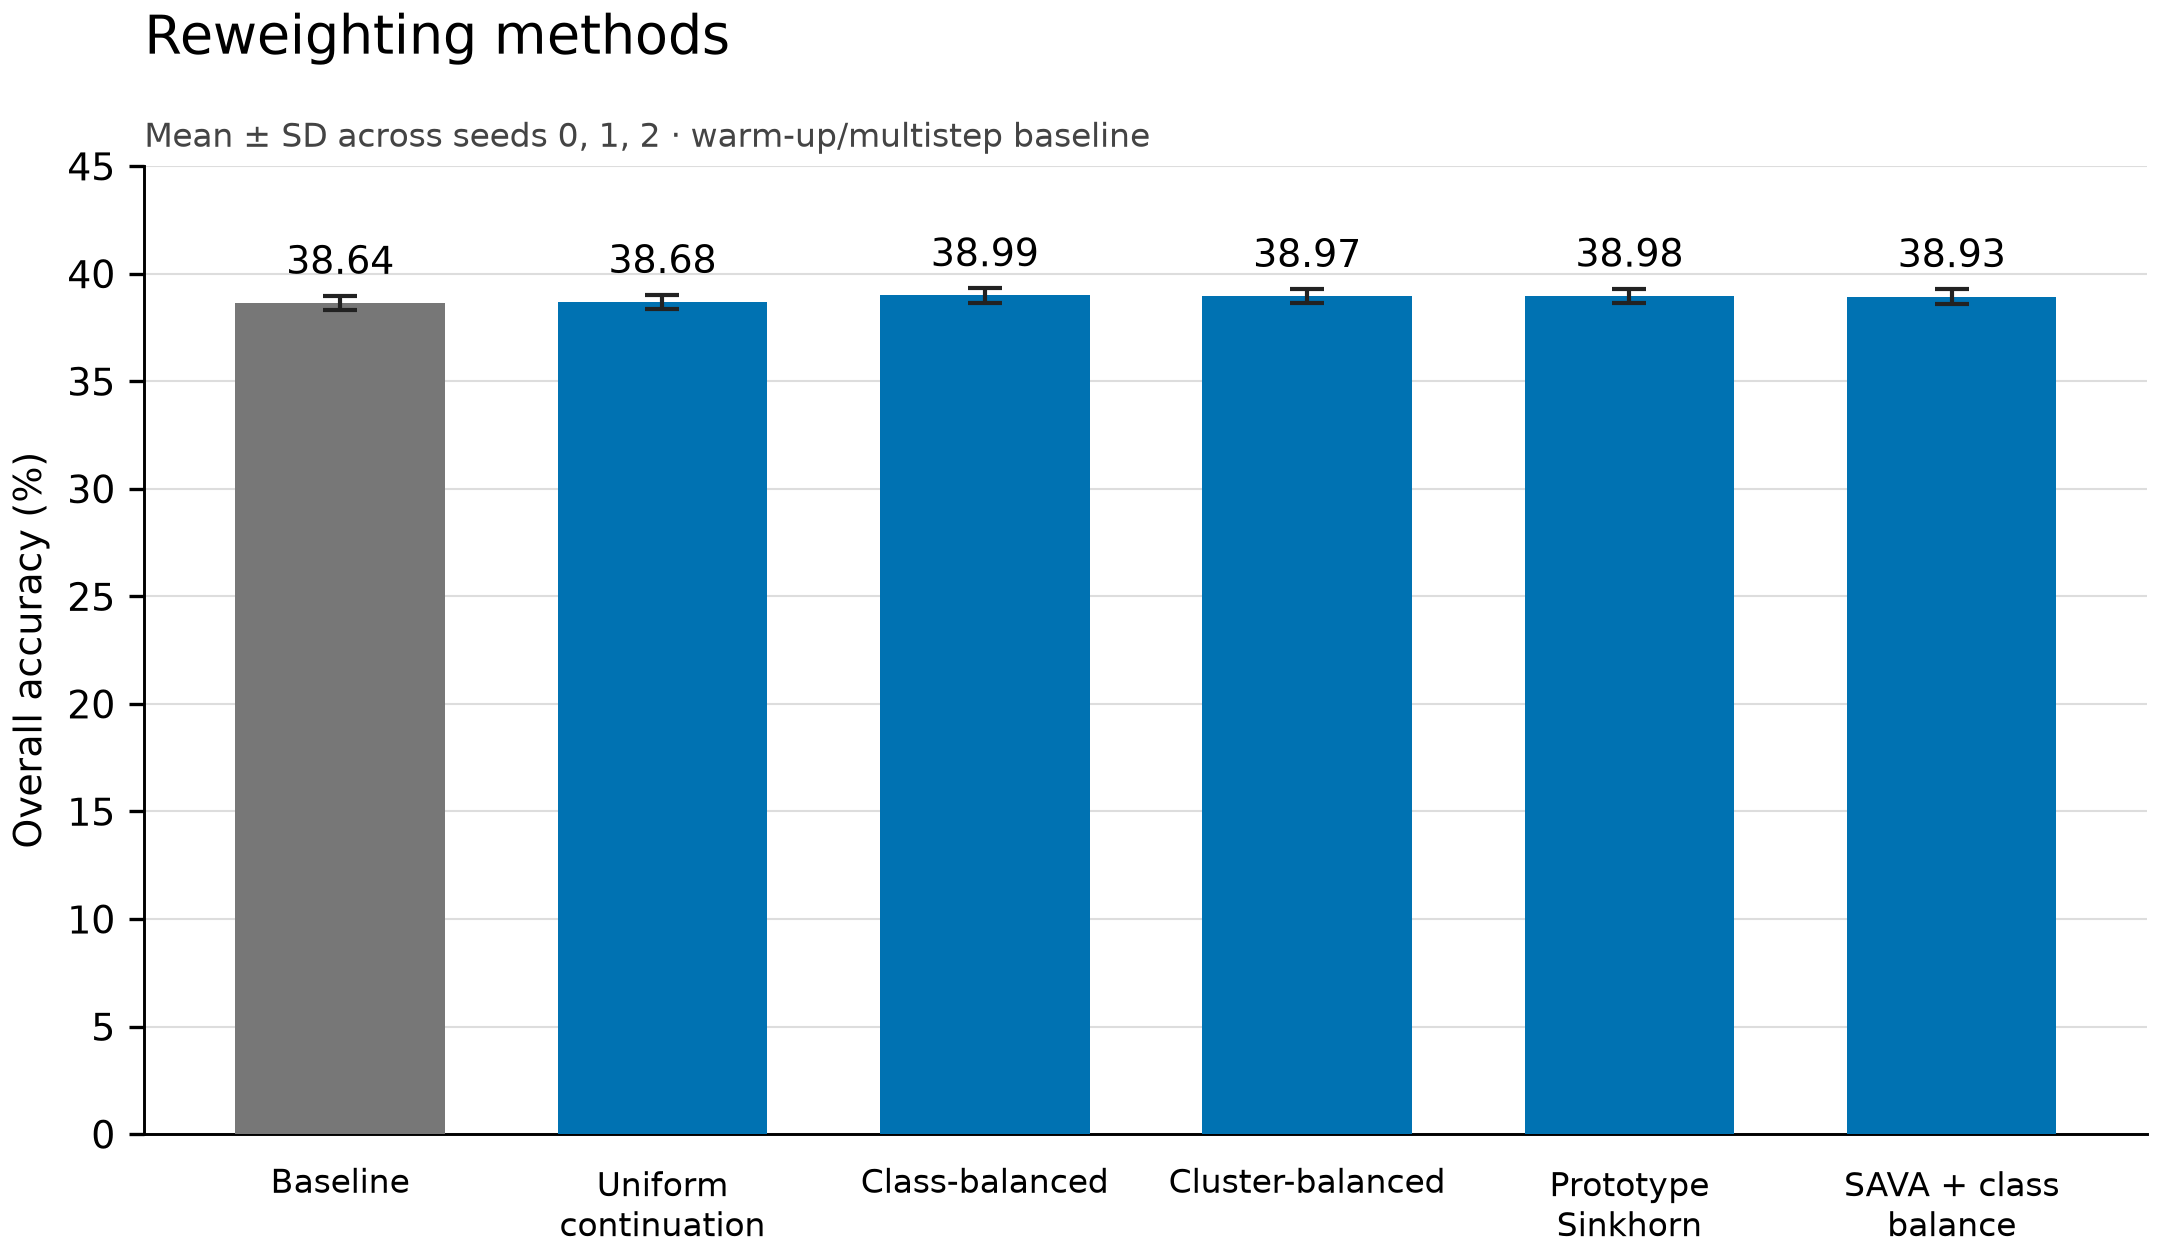
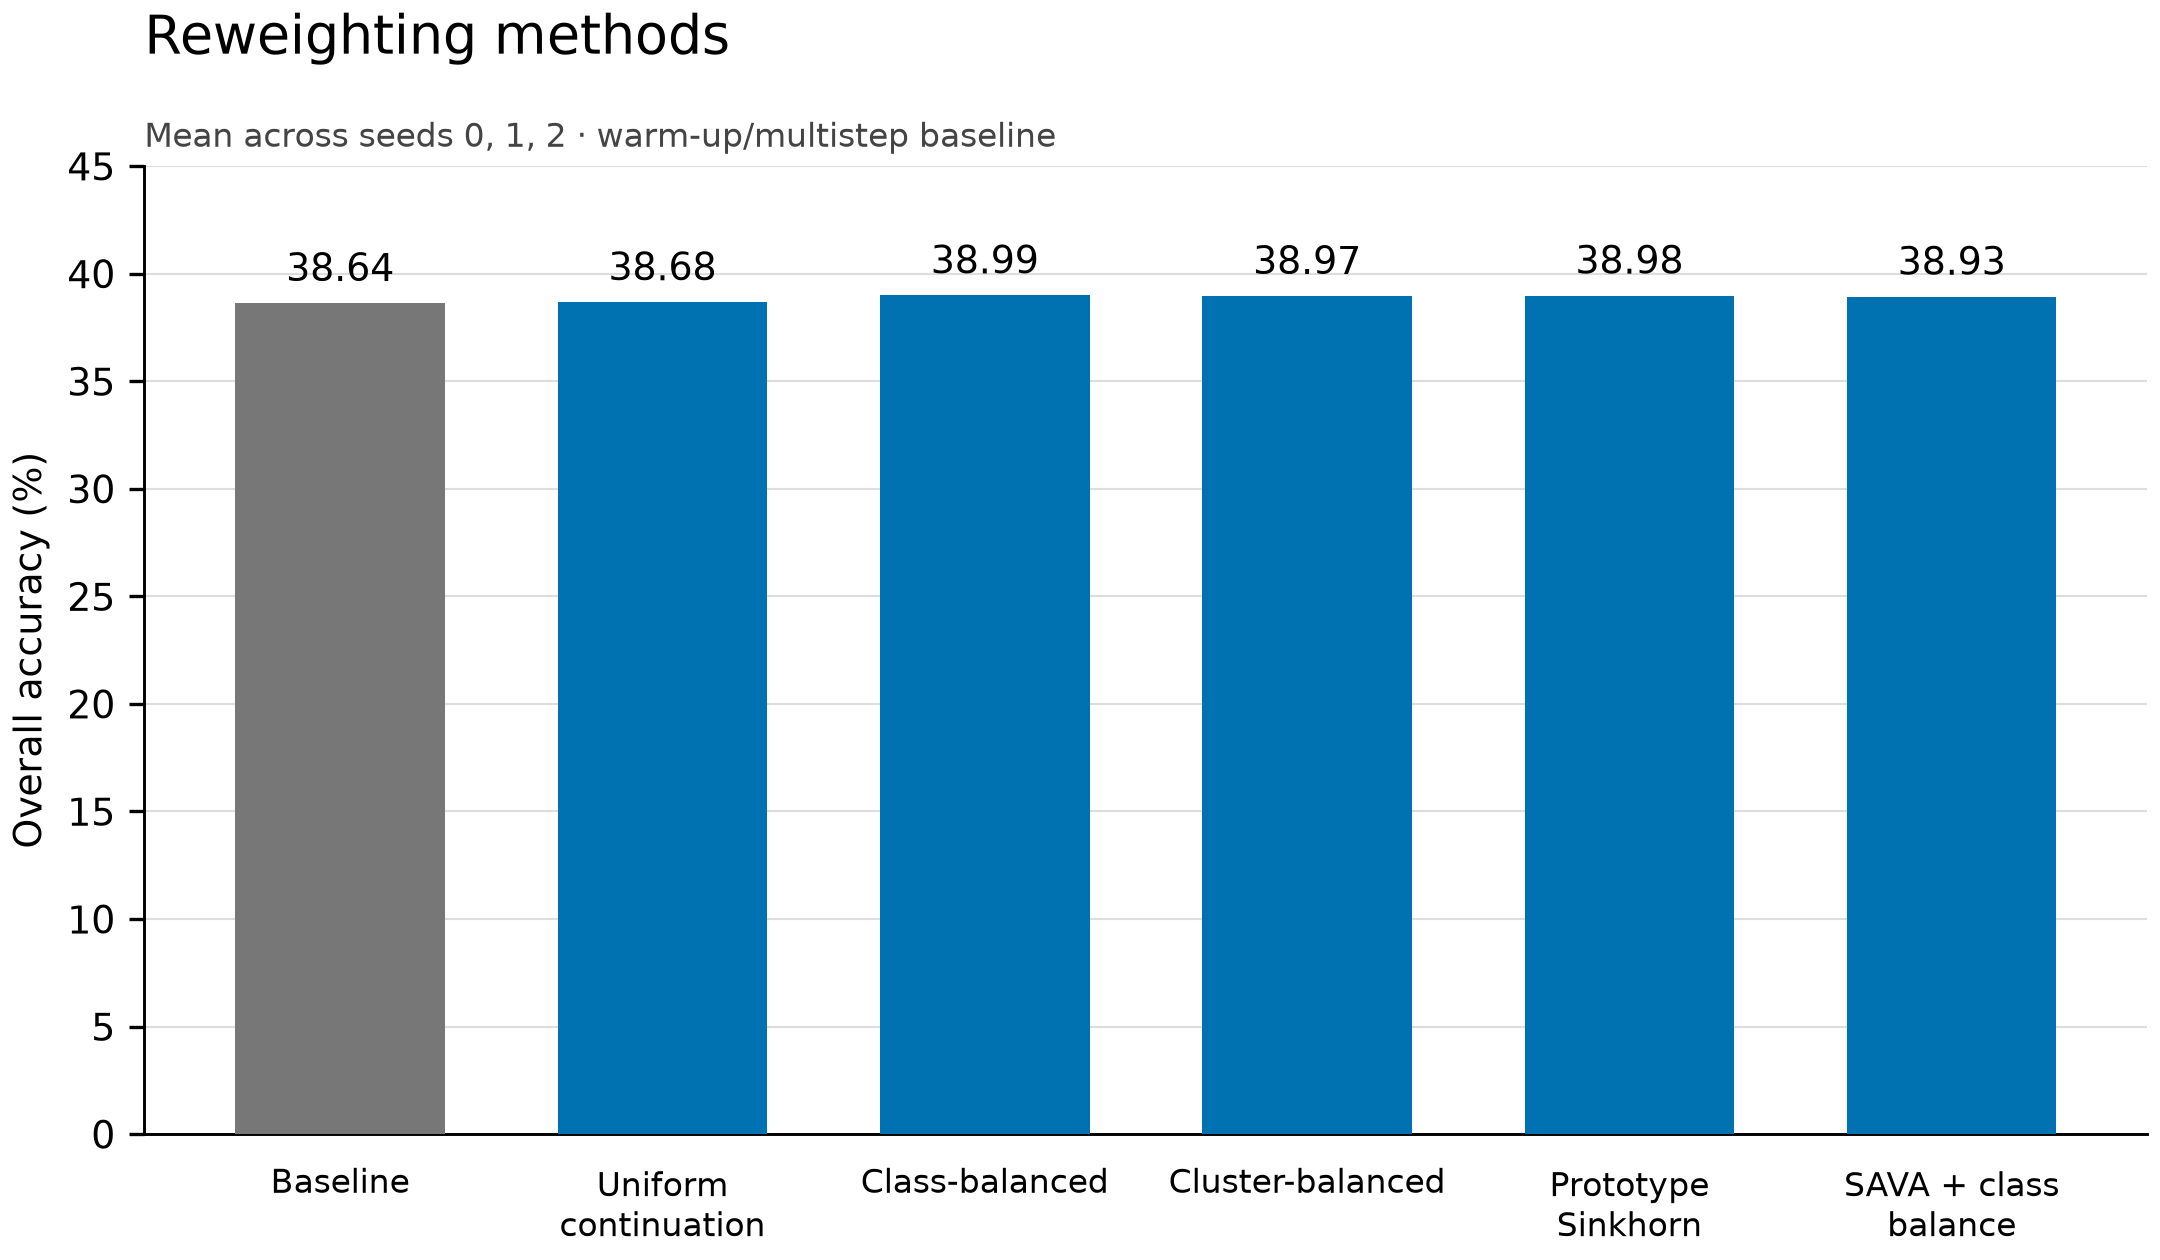
fix: show only mean accuracy in bar charts

diff --git a/scripts/report_results.py b/scripts/report_results.py
@@ -191,7 +191,6 @@ def plot_accuracy_bars(family, summary, output, accuracy_limit):
 
     methods = METHODS[family]
     means = [summary[method]["accuracy_percent"]["mean"] for method, _ in methods]
-    deviations = [summary[method]["accuracy_percent"]["sd"] for method, _ in methods]
     labels = [textwrap.fill(label, width=17, break_long_words=False) for _, label in methods]
     color = "#0072B2" if family == "reweighting" else "#007F5F"
     recipe = "warm-up/multistep baseline" if family == "reweighting" else "cosine baseline"
@@ -203,16 +202,15 @@ def plot_accuracy_bars(family, summary, output, accuracy_limit):
     with plt.rc_context(style):
         fig, ax = plt.subplots(figsize=(7.2, 4.2), layout="constrained")
         bars = ax.bar(
-            range(len(methods)), means, yerr=deviations, width=0.65,
+            range(len(methods)), means, width=0.65,
             color=["#777777"] + [color] * (len(methods) - 1),
-            error_kw={"ecolor": "#222222", "elinewidth": 1.0, "capsize": 4},
             zorder=3,
         )
-        for bar, mean, deviation in zip(bars, means, deviations, strict=True):
-            ax.text(bar.get_x() + bar.get_width() / 2, mean + deviation + 0.6,
+        for bar, mean in zip(bars, means, strict=True):
+            ax.text(bar.get_x() + bar.get_width() / 2, mean + 0.6,
                     f"{mean:.2f}", ha="center", va="bottom", fontsize=9)
         ax.set_title(f"{family.capitalize()} methods", loc="left", fontsize=13, pad=27)
-        ax.text(0, 1.02, f"Mean ± SD across seeds 0, 1, 2 · {recipe}",
+        ax.text(0, 1.02, f"Mean across seeds 0, 1, 2 · {recipe}",
                 transform=ax.transAxes, fontsize=8, color="#444444")
         ax.set_ylabel("Overall accuracy (%)")
         ax.set_xticks(range(len(methods)), labels)
@@ -236,11 +234,11 @@ def build_report(results_root, output, overwrite=False):
     matplotlib.use("Agg")
     output.mkdir(parents=True, exist_ok=True)
     # Both charts start at zero and use the same upper bound for context.
-    largest_error_bar = max(
-        values["accuracy_percent"]["mean"] + values["accuracy_percent"]["sd"]
+    largest_mean = max(
+        values["accuracy_percent"]["mean"]
         for family_summary in summaries.values() for values in family_summary.values()
     )
-    accuracy_limit = 5 * math.ceil((largest_error_bar + 2) / 5)
+    accuracy_limit = 5 * math.ceil((largest_mean + 2) / 5)
     for family in METHODS:
         write_tables(family, summaries[family], output)
         plot_accuracy_bars(family, summaries[family], output, accuracy_limit)

diff --git a/results/paper/README.md b/results/paper/README.md
@@ -33,22 +33,22 @@ in the generation environment.
 ![Bar chart of mean overall accuracy for the baseline and five reweighting continuations. All methods are close to 39 percent accuracy.](reweighting_accuracy.png)
 
 **Figure 1. Reweighting accuracy.** Each bar shows mean overall accuracy across
-training seeds 0, 1, and 2; error bars show sample SD. The baseline uses the
-warm-up/multistep recipe. Numbers above the error bars are mean accuracy in
+training seeds 0, 1, and 2. The baseline uses the
+warm-up/multistep recipe. Numbers above the bars are mean accuracy in
 percent. Gray marks the baseline; blue marks the classifier continuations.
 
 ![Bar chart of mean overall accuracy for the synthesis baseline and five comparison methods. Random duplication has the highest mean accuracy among these runs.](synthesis_accuracy.png)
 
 **Figure 2. Synthesis accuracy.** Each bar shows mean overall accuracy across
-training seeds 0, 1, and 2; error bars show sample SD. The baseline uses the
-cosine recipe. Numbers above the error bars are mean accuracy in percent.
+training seeds 0, 1, and 2. The baseline uses the
+cosine recipe. Numbers above the bars are mean accuracy in percent.
 Gray marks the baseline; green marks the classifier continuations and controls.
 
 Both charts use the same zero-based accuracy axis, currently 0–45%. They include
 all six methods in each family. There are no individual seed markers or legends;
 method labels identify every bar. Small differences are easier to read precisely
-in the accompanying tables. The error bars describe training-seed variability,
-not confidence intervals or statistical significance.
+in the accompanying tables. The charts show means only; variability across
+training seeds remains available as sample SD in the tables.
 
 Only PNG images are exported. Each figure is 7.2 × 4.2 inches at 300 DPI
 (2160 × 1260 pixels), with a white background. These are general manuscript
